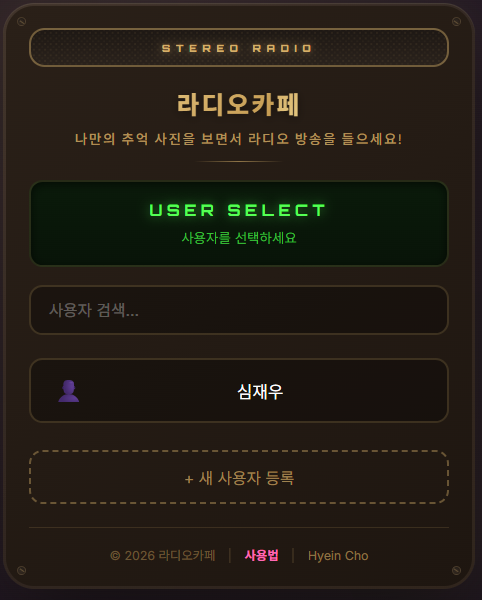
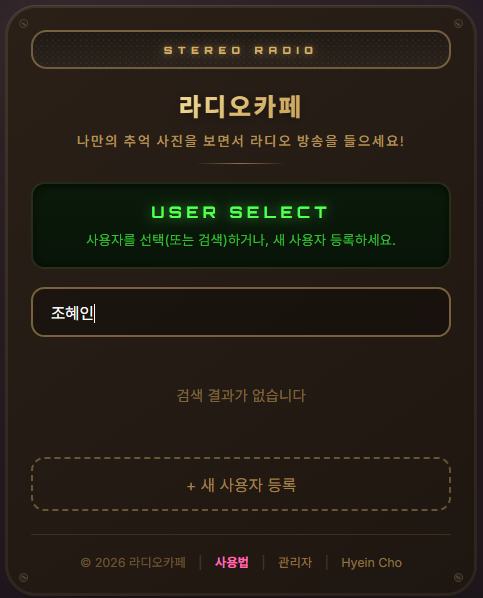
로그인 화면 스크린샷 교체 및 마커 업데이트

diff --git a/manual.html b/manual.html
@@ -291,15 +291,15 @@
         <div class="screenshot-box">
           <img src="login-screen.png" alt="로그인 화면">
           <div class="marker" style="top: 28%; left: 50%; transform: translateX(-50%);">1</div>
-          <div class="marker" style="top: 48%; left: 12%;">2</div>
-          <div class="marker" style="top: 62%; left: 50%; transform: translateX(-50%);">3</div>
-          <div class="marker" style="top: 78%; left: 50%; transform: translateX(-50%);">4</div>
+          <div class="marker" style="top: 45%; left: 50%; transform: translateX(-50%);">2</div>
+          <div class="marker" style="top: 58%; left: 50%; transform: translateX(-50%);">3</div>
+          <div class="marker" style="top: 75%; left: 50%; transform: translateX(-50%);">4</div>
         </div>
         <div class="screenshot-caption">로그인 화면</div>
         <div class="marker-desc">
-          <div class="marker-item"><div class="marker-num">1</div><span>사용자 선택 영역 - 등록된 사용자 목록이 표시됩니다</span></div>
-          <div class="marker-item"><div class="marker-num">2</div><span>사용자 검색 - 이름으로 사용자를 검색할 수 있습니다</span></div>
-          <div class="marker-item"><div class="marker-num">3</div><span>사용자 목록 - 클릭하여 사용자를 선택합니다</span></div>
+          <div class="marker-item"><div class="marker-num">1</div><span>USER SELECT - 사용자를 선택(또는 검색)하거나, 새 사용자 등록 안내</span></div>
+          <div class="marker-item"><div class="marker-num">2</div><span>사용자 검색 - 이름을 입력하여 사용자를 검색합니다</span></div>
+          <div class="marker-item"><div class="marker-num">3</div><span>검색 결과 - 검색된 사용자 목록이 표시됩니다</span></div>
           <div class="marker-item"><div class="marker-num">4</div><span>새 사용자 등록 - 새로운 사용자로 등록합니다</span></div>
         </div>
       </div>
